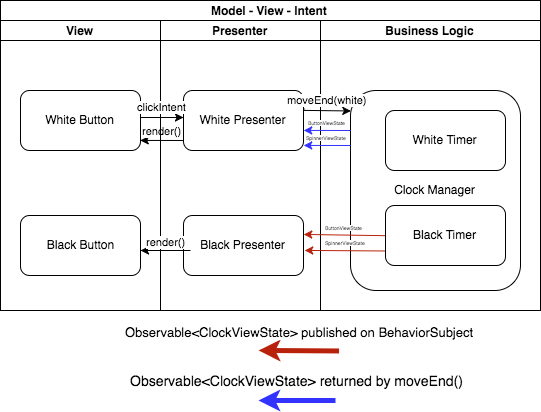
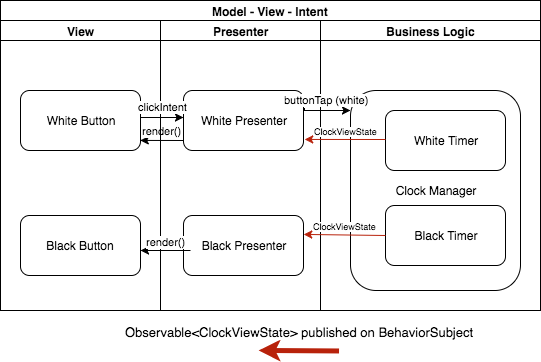
Update docs

diff --git a/docs/README.md b/docs/README.md
@@ -6,8 +6,28 @@
 Rewritten to use [Mosby](http://hannesdorfmann.com/android/mosby3-mvi-1) library for cleaner separation between views and business logic.
 
 There are 3 presenters:
-* `PlayPausePresenter` which renders the play/pause button and the spinner
+* `MainViewPresenter` which renders the play/pause button and the spinner
 * `ClockViewPresenter` for responding to button taps and updating time
 * `SoundViewPresenter` for playing button click and end-of-game buzzer
+
+This diagram shows the MVI interactions for the `ClockView` portion of the app.
+There are two `ClockFragment`s ("view"), one for white and one for black,
+a `ClockViewPresenter` for each view, and the business logic. The business logic
+has no knowledge of the view or Android classes - it consists of a`ClockManager` 
+which holds two `TimerLogic` instances.  
+
+When user hits a button the "intent" is forwarded through the presenter to the 
+business logic.  For this view, if the user performed an invalid tap - e.g. at start
+of game black player must tap button to kick things off - the presenter responsds 
+with a Snackbar message instead of calling the method on the clock manager that would
+start the game.  
+
+While game is underway, each `TimerLogic` instance periodically generates new 
+`ClockViewState`s (to show the time update) and publishes them on a `PublishSubject`
+that the presenter has subscribed to.
+
+I chose to put the generation of an error message in the presenter rather than 
+the clock manager in order to keep the business logic purely concerned with actions
+that change state of the game.
 
 ![MVI diagram for the ClockViewPresenter](mvi.png)
